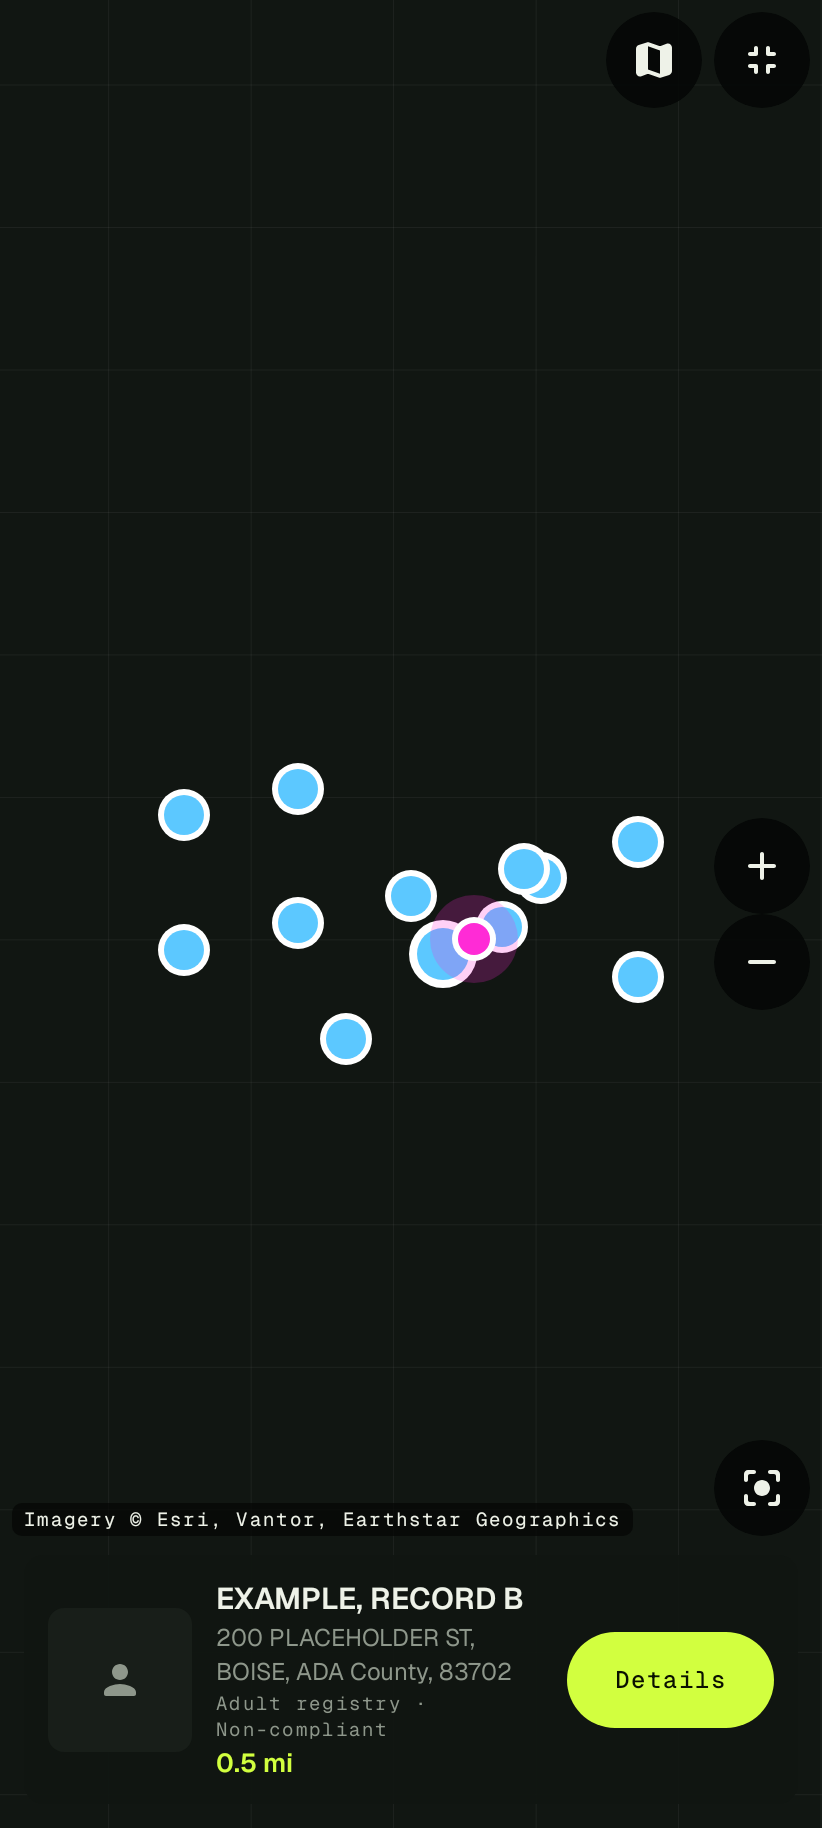
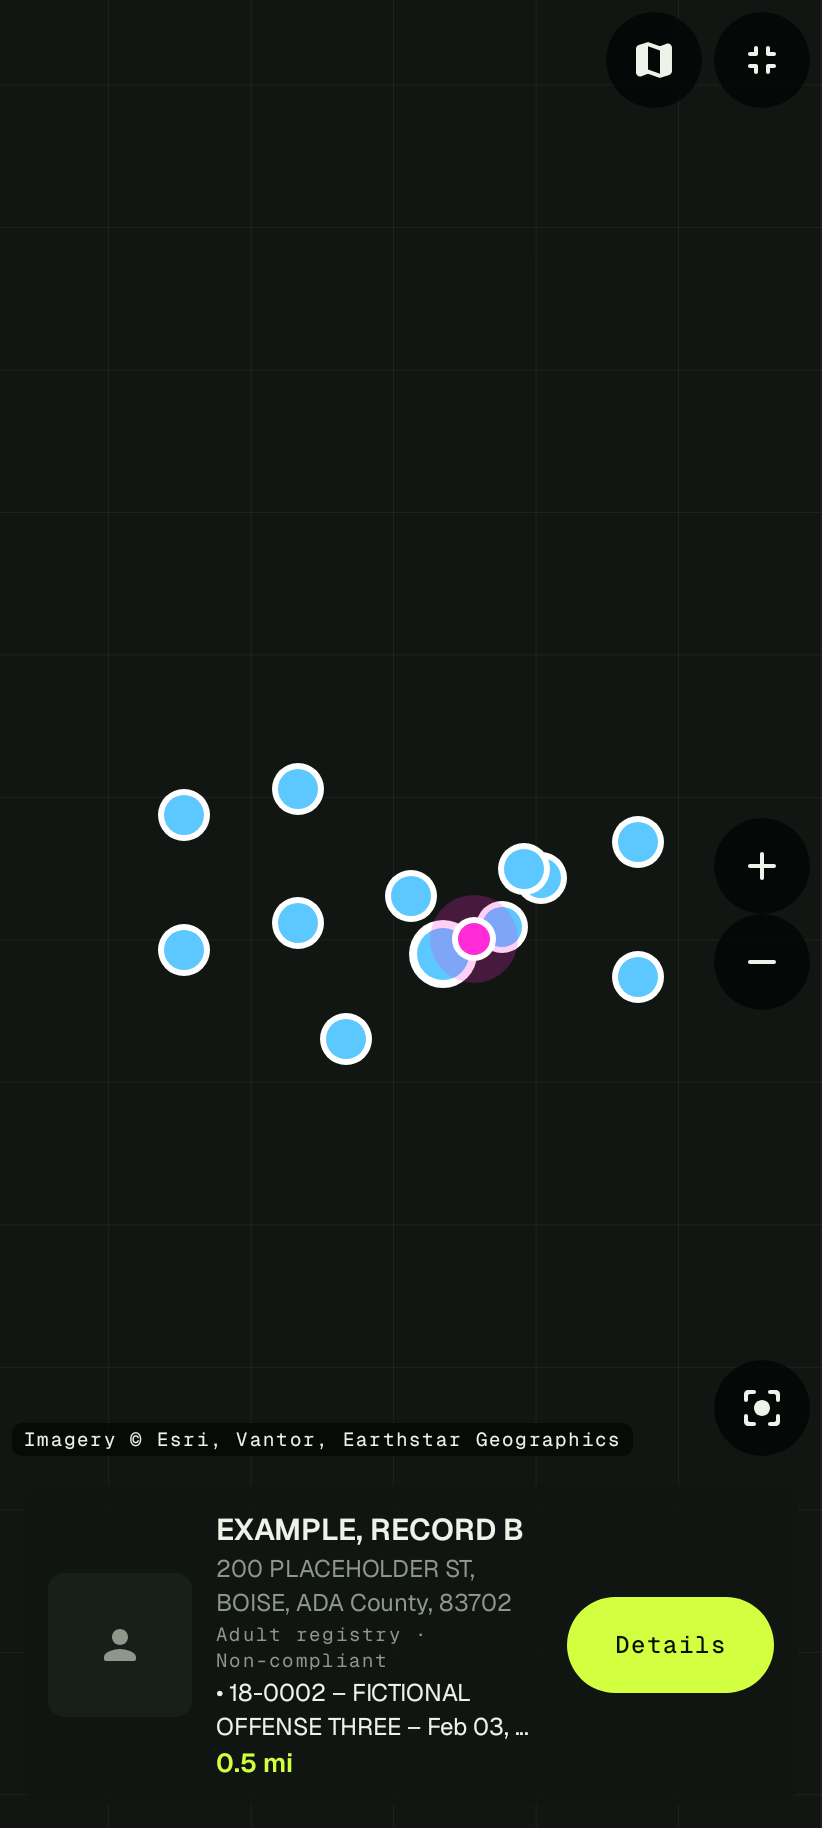
Map pin preview shows the record's offenses (up to 3, +N more) next to the photo
Claude-Session: https://claude.ai/code/session_018A3LeNHC25Dd1z2KQ4XMJz

diff --git a/app/src/main/kotlin/vip/ringling/recon/ui/map/FullscreenMap.kt b/app/src/main/kotlin/vip/ringling/recon/ui/map/FullscreenMap.kt
@@ -30,6 +30,7 @@ import androidx.compose.ui.unit.dp
 import androidx.compose.ui.window.Dialog
 import androidx.compose.ui.window.DialogProperties
 import vip.ringling.recon.domain.Finding
+import vip.ringling.recon.domain.offenseLines
 import vip.ringling.recon.domain.neutral
 import vip.ringling.recon.domain.GeoPoint
 import vip.ringling.recon.ui.components.RemoteImage
@@ -65,7 +66,7 @@ fun FullscreenMapContent(
     val ltr = androidx.compose.ui.unit.LayoutDirection.Ltr
     val controlsPadding = androidx.compose.foundation.layout.PaddingValues(
         start = ins.calculateLeftPadding(ltr), top = ins.calculateTopPadding(), end = ins.calculateRightPadding(ltr),
-        bottom = ins.calculateBottomPadding() + if (selected != null) 140.dp else 0.dp,
+        bottom = ins.calculateBottomPadding() + if (selected != null) (140 + 40 * minOf(selected.offenseLines().size, 3)).dp else 0.dp,
     )
     Box(Modifier.fillMaxSize().background(MaterialTheme.colorScheme.background)) {
         TileMap(
@@ -93,6 +94,9 @@ private fun SelectedCard(f: Finding, onOpen: () -> Unit) {
                 Text(f.title, style = MaterialTheme.typography.titleMedium, maxLines = 2)
                 Text(f.detail.lines().firstOrNull().orEmpty(), style = MaterialTheme.typography.bodySmall, color = cs.onSurfaceVariant, maxLines = 2)
                 if (f.tags.isNotEmpty()) Text(f.tags.joinToString(" · "), style = MaterialTheme.typography.labelSmall, color = cs.onSurfaceVariant)
+                val offenses = f.offenseLines()
+                offenses.take(3).forEach { o -> Text("• $o", style = MaterialTheme.typography.bodySmall, maxLines = 2, overflow = androidx.compose.ui.text.style.TextOverflow.Ellipsis) }
+                if (offenses.size > 3) Text("+ ${offenses.size - 3} more in Details", style = MaterialTheme.typography.labelSmall, color = cs.onSurfaceVariant)
                 Row(horizontalArrangement = Arrangement.spacedBy(8.dp), verticalAlignment = Alignment.CenterVertically) {
                     if (!f.neutral) SeverityChip(f.severity)
                     distanceLabel(f)?.let { Text(it, style = MaterialTheme.typography.titleSmall, color = cs.primary) }

diff --git a/app/src/main/kotlin/vip/ringling/recon/ui/results/ResultsScreen.kt b/app/src/main/kotlin/vip/ringling/recon/ui/results/ResultsScreen.kt
@@ -82,6 +82,7 @@ import vip.ringling.recon.ui.signal.textColor
 import vip.ringling.recon.ui.theme.ReconTheme
 import vip.ringling.recon.ui.theme.ReconType
 import kotlin.math.ceil
+import vip.ringling.recon.domain.offenseLines
 import vip.ringling.recon.domain.EntityGraph
 
 data class ResultsActions(
@@ -546,6 +547,9 @@ fun RecordPreview(f: Finding, me: GeoPoint?, onOpen: () -> Unit, onClose: () -> 
             androidx.compose.foundation.layout.FlowRow(horizontalArrangement = Arrangement.spacedBy(5.dp), verticalArrangement = Arrangement.spacedBy(4.dp)) {
                 f.tags.take(1).forEach { t -> StatusTag(t.removeSuffix(" registry"), if (t in f.hotTags) Tone.ALERT else Tone.INFO) }
             }
+            val offenses = f.offenseLines()
+            offenses.take(3).forEach { o -> Text("• $o", color = sig.text, style = MaterialTheme.typography.bodySmall, maxLines = 2, overflow = TextOverflow.Ellipsis) }
+            if (offenses.size > 3) Text("+ ${offenses.size - 3} more in Details", color = sig.muted, style = MaterialTheme.typography.bodySmall)
             Row(verticalAlignment = Alignment.CenterVertically, horizontalArrangement = Arrangement.spacedBy(10.dp)) {
                 SignalButton("Details", onOpen, Modifier.heightIn(min = 48.dp), filled = true, mono = true)
                 dist?.let { Text(vip.ringling.recon.domain.Geo.formatDistance(it), color = sig.signal, style = ReconType.value.copy(fontSize = 12.sp), maxLines = 1, softWrap = false) }

diff --git a/app/src/test/kotlin/vip/ringling/recon/domain/BriefingTest.kt b/app/src/test/kotlin/vip/ringling/recon/domain/BriefingTest.kt
@@ -23,3 +23,13 @@ class BriefingTest {
         assertEquals(null, clean.firstStep)
     }
 }
+
+class OffenseLinesTest {
+    @Test fun readsOffensesFromDetailAndAddressSearchLines() {
+        val full = Finding("r", ModuleId.REGISTRY, "X", "1 A ST, BOISE\\nStatus: Compliant\\nOffenses (2):\\n• 18-1506 – FICTIONAL ONE – 2010\\n• 18-1507 – FICTIONAL TWO".replace("\\n", "\n"), Severity.INFO)
+        assertEquals(listOf("18-1506 – FICTIONAL ONE – 2010", "18-1507 – FICTIONAL TWO"), full.offenseLines())
+        val listed = Finding("r", ModuleId.REGISTRY, "X", "1 A ST\nOffense (as listed): 18-0000 – FICTIONAL", Severity.INFO)
+        assertEquals(listOf("18-0000 – FICTIONAL"), listed.offenseLines())
+        assertEquals(emptyList(), Finding("r", ModuleId.REGISTRY, "X", "No offenses listed.", Severity.INFO).offenseLines())
+    }
+}

diff --git a/app/src/main/kotlin/vip/ringling/recon/domain/Geo.kt b/app/src/main/kotlin/vip/ringling/recon/domain/Geo.kt
@@ -111,3 +111,12 @@ data class AddressQuery(val street: String, val city: String, val miles: Int) {
             Regex("""^(.+),\s*([^,]+?)\s*\((\d)\s*mi\)$""").find(raw.trim())?.let { m -> of(m.groupValues[1], m.groupValues[2], m.groupValues[3].toInt()) }
     }
 }
+
+/** Offenses of a registry record as shown in its detail ("• 18-1506 – …" lines, or the single "Offense (as listed): …" line of an address search), for the map preview cards. */
+fun Finding.offenseLines(): List<String> = detail.lines().mapNotNull { l ->
+    when {
+        l.startsWith("• ") -> l.removePrefix("• ").trim()
+        l.startsWith("Offense (as listed): ") -> l.removePrefix("Offense (as listed): ").trim()
+        else -> null
+    }
+}.filter { it.isNotBlank() }
